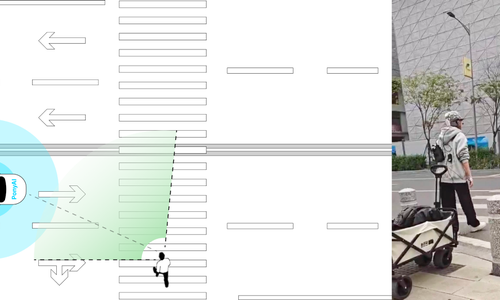
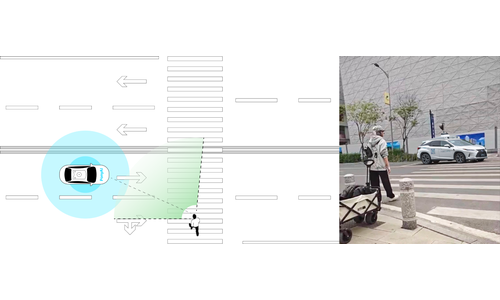
Regenerate thumbnails with padding (letterbox) to show full image content

diff --git a/_pages/about.md b/_pages/about.md
@@ -49,7 +49,7 @@ My recent work includes papers at **CHI 2023** and **CHI 2024**, plus a study on
   <div class='paper-box-image'>
     <div>
       <div class="badge">CHI 2024</div>
-      <img src='images/thumb_paper_2024_chi.png?v=2' alt="Gesture-based eHMI for AVs" width="100%">
+      <img src='images/thumb_paper_2024_chi.png?v=4' alt="Gesture-based eHMI for AVs" width="100%">
     </div>
   </div>
   <div class='paper-box-text' markdown="1">
@@ -65,8 +65,8 @@ My recent work includes papers at **CHI 2023** and **CHI 2024**, plus a study on
   <div class='paper-box-image'>
     <div>
       <div class="badge">AutomotiveUI 2025</div>
-      <video width="100%" controls playsinline poster="images/thumb_paper_2025_autoui.png?v=2">
-        <source src="images/paper_2025_autoui.mp4?v=2" type="video/mp4">
+      <video width="100%" controls playsinline poster="images/thumb_paper_2025_autoui.png?v=4">
+        <source src="images/paper_2025_autoui.mp4?v=4" type="video/mp4">
         Your browser does not support the video tag.
       </video>
     </div>
@@ -84,7 +84,7 @@ Chishang Yang, **Xiang Chang**, Debargha Dey, Zhuoqi Xu, Avi Parush, and Wendy J
   <div class='paper-box-image'>
     <div>
       <div class="badge">ASPIRE 2025</div>
-      <img src='images/thumb_paper_2025_aspire.png?v=2' alt="Trust formation after robotaxi rides" width="100%">
+      <img src='images/thumb_paper_2025_aspire.png?v=4' alt="Trust formation after robotaxi rides" width="100%">
     </div>
   </div>
   <div class='paper-box-text' markdown="1">
@@ -100,7 +100,7 @@ Chishang Yang, **Xiang Chang**, Debargha Dey, Zhuoqi Xu, Avi Parush, and Wendy J
   <div class='paper-box-image'>
     <div>
       <div class="badge">AutoUI WIP 2025</div>
-      <img src='images/thumb_paper_2025_autoui_wip.png?v=3' alt="Robotaxi first-ride study" width="100%">
+      <img src='images/thumb_paper_2025_autoui_wip.png?v=4' alt="Robotaxi first-ride study" width="100%">
     </div>
   </div>
   <div class='paper-box-text' markdown="1">
@@ -116,7 +116,7 @@ Zhenyu Wang, Haolong Hu, Weiyin Xie, **Xiang Chang**, Peixuan Xiong, and Dengbo 
   <div class='paper-box-image'>
     <div>
       <div class="badge">CHI 2023</div>
-      <img src='images/thumb_paper_2023_chi.png?v=2' alt="Community-driven sign-language content creation" width="100%">
+      <img src='images/thumb_paper_2023_chi.png?v=4' alt="Community-driven sign-language content creation" width="100%">
     </div>
   </div>
   <div class='paper-box-text' markdown="1">
@@ -132,7 +132,7 @@ Xinru Tang, **Xiang Chang**, Nuoran Chen, Yingjie Ni, RAY LC, and Xin Tong.
   <div class='paper-box-image'>
     <div>
       <div class="badge">ICEB 2022</div>
-      <img src='images/thumb_paper_2022_iceb.png?v=2' alt="Smart community service satisfaction" width="100%">
+      <img src='images/thumb_paper_2022_iceb.png?v=4' alt="Smart community service satisfaction" width="100%">
     </div>
   </div>
   <div class='paper-box-text' markdown="1">
@@ -148,7 +148,7 @@ Rongxin Jin, Yifan Liu, Lichen Yang, **Xiang Chang**.
   <div class='paper-box-image'>
     <div>
       <div class="badge">ICEB 2021</div>
-      <img src='images/thumb_paper_2021_iceb.png?v=2' alt="Health information sharing of the elderly" width="100%">
+      <img src='images/thumb_paper_2021_iceb.png?v=4' alt="Health information sharing of the elderly" width="100%">
     </div>
   </div>
   <div class='paper-box-text' markdown="1">
@@ -166,7 +166,7 @@ Chenyu Li, Chengxi Sun, **Xiang Chang**, Luoming Liang, Yao Ma, Fan Ke.
   <div class='paper-box-image'>
     <div>
       <div class="badge">Scientific Data</div>
-      <img src='images/thumb_paper_2025_scientific_data.png?v=2' alt="EEG Dataset for Driving Expertise" width="100%">
+      <img src='images/thumb_paper_2025_scientific_data.png?v=4' alt="EEG Dataset for Driving Expertise" width="100%">
     </div>
   </div>
   <div class='paper-box-text' markdown="1">
@@ -182,7 +182,7 @@ Jiangtao Gong, Yueteng Yu, Yancheng Cao, Ruoxuan Yang, **Xiang Chang**, Haoming 
   <div class='paper-box-image'>
     <div>
       <div class="badge">CSCW 2026</div>
-      <img src='images/thumb_paper_2026_cscw.png?v=3' alt="Evaluation Gaps in Driving Behaviour" width="100%">
+      <img src='images/thumb_paper_2026_cscw.png?v=4' alt="Evaluation Gaps in Driving Behaviour" width="100%">
     </div>
   </div>
   <div class='paper-box-text' markdown="1">
@@ -197,7 +197,7 @@ Zhijie Yi*, **Xiang Chang***, Yueteng Yu, Xinyu Yang, Junrong Lu, Yiyao Liu, Ye 
   <div class='paper-box-image'>
     <div>
       <div class="badge">AAAI 2026</div>
-      <img src='images/thumb_paper_2025_aaai.png?v=2' alt="Hierarchical multi-agent robotic systems" width="100%">
+      <img src='images/thumb_paper_2025_aaai.png?v=4' alt="Hierarchical multi-agent robotic systems" width="100%">
     </div>
   </div>
   <div class='paper-box-text' markdown="1">
@@ -213,7 +213,7 @@ Yuanchen Bai, Zijian Ding, Shaoyue Wen, **Xiang Chang**, and Angelique Taylor.
   <div class='paper-box-image'>
     <div>
       <div class="badge">Human Factors</div>
-      <img src='images/thumb_paper_human_factors.png?v=3' alt="Trust Evolvement in Robotaxis" width="100%">
+      <img src='images/thumb_paper_human_factors.png?v=4' alt="Trust Evolvement in Robotaxis" width="100%">
     </div>
   </div>
   <div class='paper-box-text' markdown="1">
@@ -232,7 +232,7 @@ Zhenyu Wang, Weiyin Xie, Haolong Hu, **Xiang Chang**, Meng Sun, and Dengbo He.
   <div class='paper-box-image'>
     <div>
       <div class="badge">Stanford VSR 2025</div>
-      <img src='images/500x300.png?v=2' alt="Mind-wandering detection pipeline" width="100%">
+      <img src='images/500x300.png?v=4' alt="Mind-wandering detection pipeline" width="100%">
     </div>
   </div>
   <div class='paper-box-text' markdown="1">
